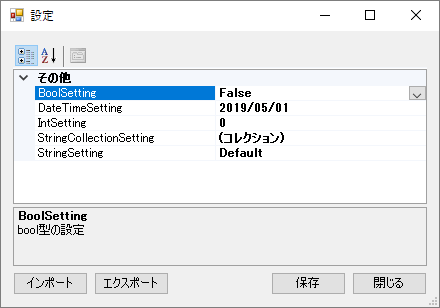
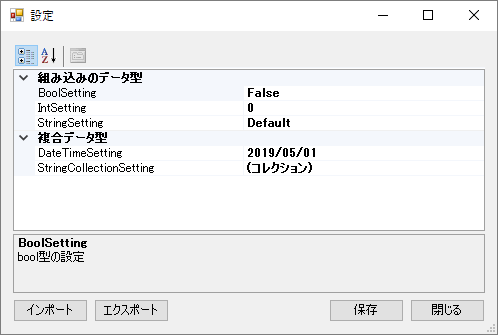
Add CategoryAttribute to settings properties

diff --git a/SampleApplicationSettingsDialog/Settings.cs b/SampleApplicationSettingsDialog/Settings.cs
@@ -9,6 +9,17 @@ namespace SampleApplicationSettingsDialog.Properties
     {
         public Settings()
         {
+            // PropertyGridのCategoryを設定する
+            var categoryTable = new Dictionary<string, string>()
+            {
+                { nameof(Settings.BoolSetting),             "組み込みのデータ型" },
+                { nameof(Settings.StringSetting),           "組み込みのデータ型" },
+                { nameof(Settings.StringCollectionSetting), "複合データ型" },
+                { nameof(Settings.DateTimeSetting),         "複合データ型" },
+                { nameof(Settings.IntSetting),              "組み込みのデータ型" },
+            };
+            addCategory(categoryTable);
+
             // PropertyGridのHelpテキストを設定する
             var descriptionTable = new Dictionary<string, string>()
             {
@@ -22,7 +33,40 @@ namespace SampleApplicationSettingsDialog.Properties
         }
 
         /// <summary>
-        /// プロパティにDescriptionAttribute属性を追加する
+        /// プロパティにCategory属性を追加する
+        /// </summary>
+        /// <param name="categoryTable">Key:プロパティ名、Value:テキスト</param>
+        private void addCategory(Dictionary<string, string> categoryTable)
+        {
+            if (categoryTable == null)
+            {
+                return;
+            }
+
+            var properties = TypeDescriptor.GetProperties(this);
+            foreach (PropertyDescriptor p in properties)
+            {
+                string text;
+                if (categoryTable.TryGetValue(p.Name, out text))
+                {
+                    // 属性にDescriptionAttributeを追加する。
+                    // 本当はMemberDescriptor.Attributes.Addのようにしたいのだが、Attributes属性はgetだけ定義されている。
+                    // そのためリフレクションを使って属性を追加する
+                    var fi = p.Attributes.GetType().GetField("_attributes", BindingFlags.NonPublic | BindingFlags.Instance);
+                    var attrs = fi.GetValue(p.Attributes) as Attribute[];
+                    var listAttr = new List<Attribute>();
+                    if (attrs != null)
+                    {
+                        listAttr.AddRange(attrs);
+                    }
+                    listAttr.Add(new CategoryAttribute(text));
+                    fi.SetValue(p.Attributes, listAttr.ToArray());
+                }
+            }
+        }
+
+        /// <summary>
+        /// プロパティにDescription属性を追加する
         /// </summary>
         /// <param name="descriptionTable">Key:プロパティ名、Value:テキスト</param>
         private void addDescription(Dictionary<string, string> descriptionTable)
